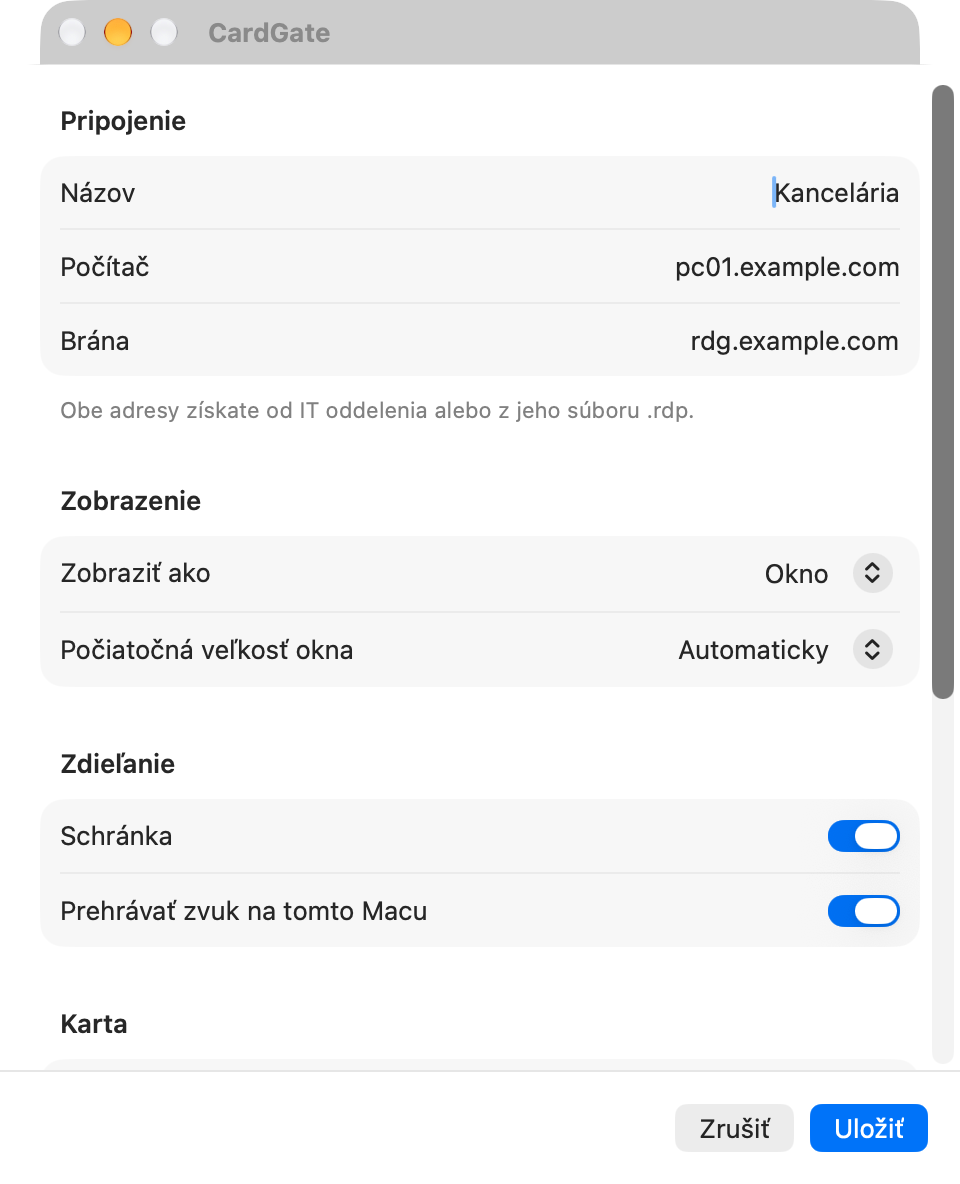
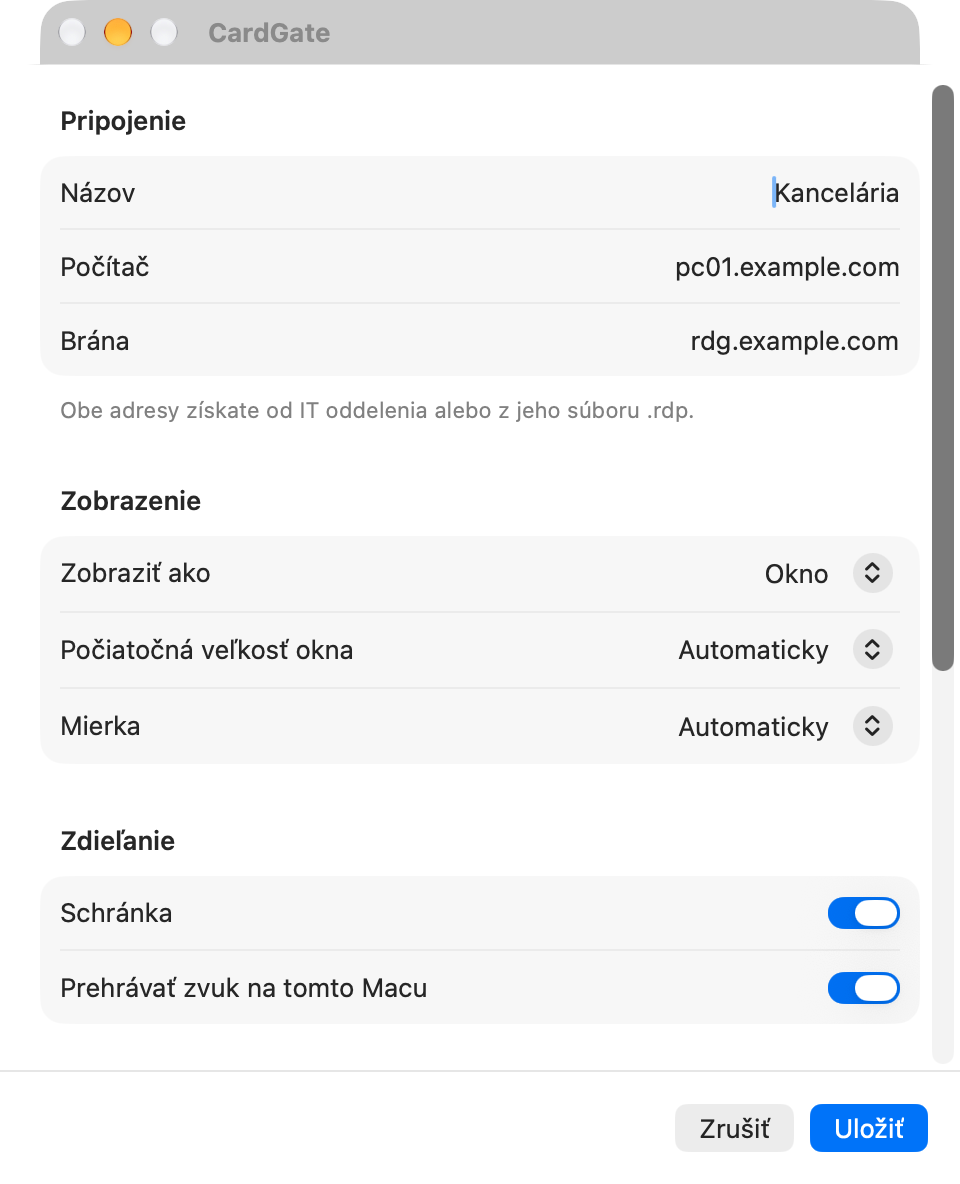
chore: release 0.5.0

diff --git a/CHANGELOG.md b/CHANGELOG.md
@@ -5,6 +5,11 @@ verze se číslují podle [Semantic Versioning](https://semver.org/lang/cs/). Ak
 
 ## [Unreleased]
 
+## [0.5.0] - 2026-11-12
+
+Měřítko vzdálené plochy v nastavení, správné rozložení a měřítko na více monitorech, návrat
+minimalizovaného okna a předvyplněné jméno ve tvaru UPN při přihlášení heslem.
+
 ### Přidáno
 - Měřítko vzdálené plochy v nastavení připojení (velikost textu a aplikací ve Windows): automaticky
   podle displeje, nebo pevně 100–300 %. Měřítko platí už na přihlašovací obrazovce Windows.
